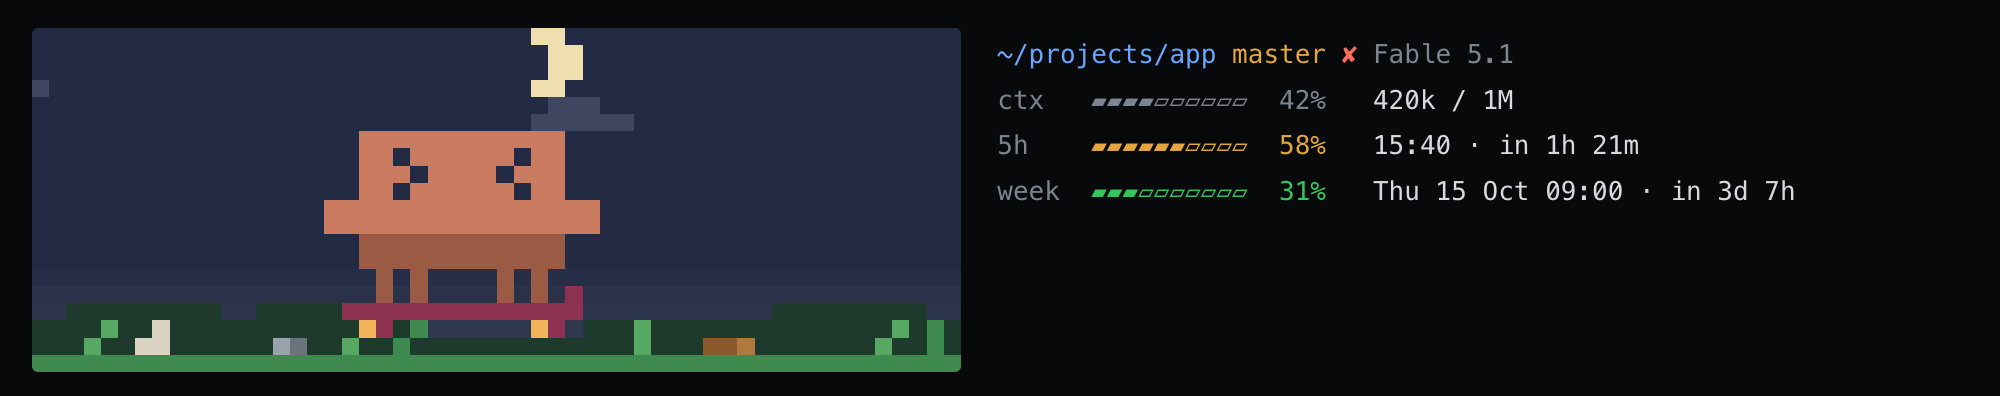
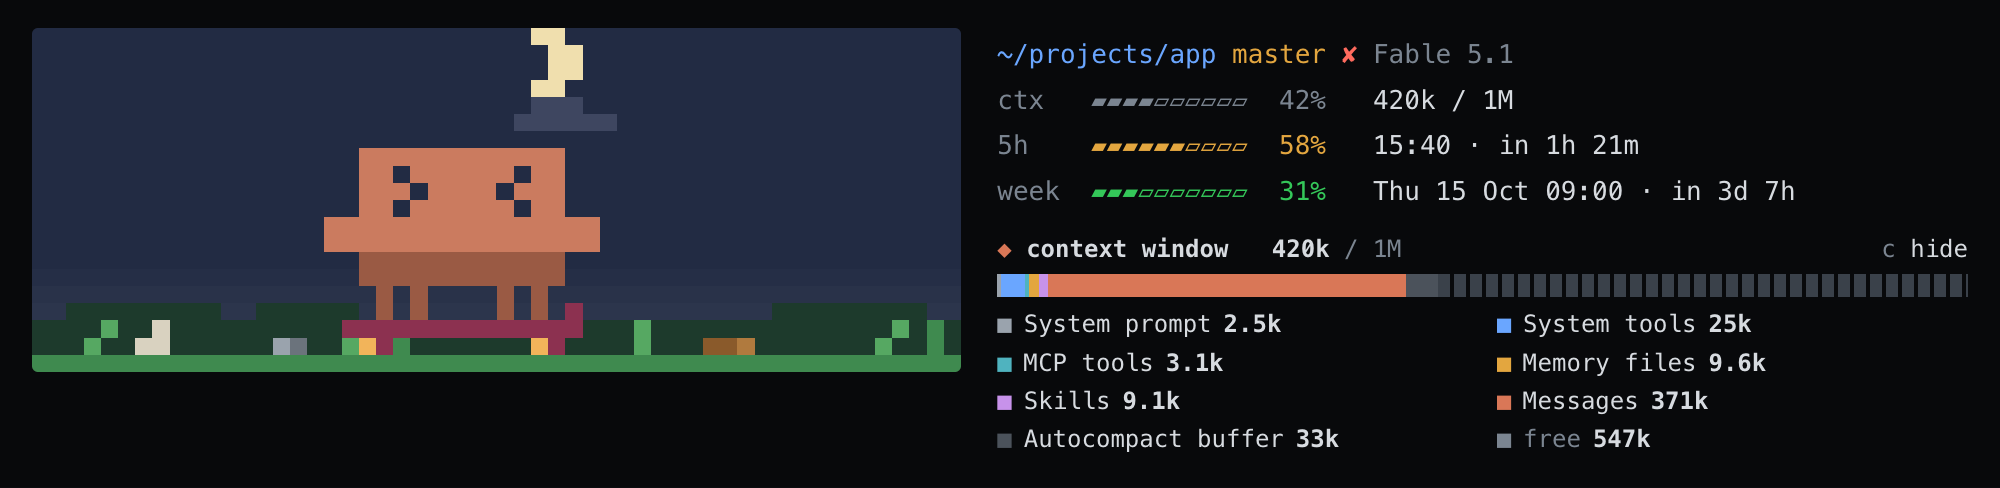
README: previews include the context-window breakdown (#3)

diff --git a/README.md b/README.md
@@ -28,14 +28,15 @@ transcript.
 
 **Whale**, in the sea (the default):
 
-![The whale spouting in its sea above seagrass and litter, beside the folder, branch, model, context and rate-limit meters](docs/whale.png)
+![The whale spouting in its sea above seagrass and litter, beside the folder, branch, model, context and rate-limit meters and the context window by category](docs/whale.png)
 
 **Clawd**, on land (`/pixbar theme clawd`):
 
 ![Clawd skating on its board under the moon, beside the same meters](docs/clawd.png)
 
 Both show the same moment: Claude answering, 42% of the context used, 58% of the
-five-hour window, and uncommitted work (the litter on the floor).
+five-hour window, and uncommitted work (the litter on the floor). Under the meters is
+the context window by category; press `c` to hide it.
 
 ### What it shows
 
